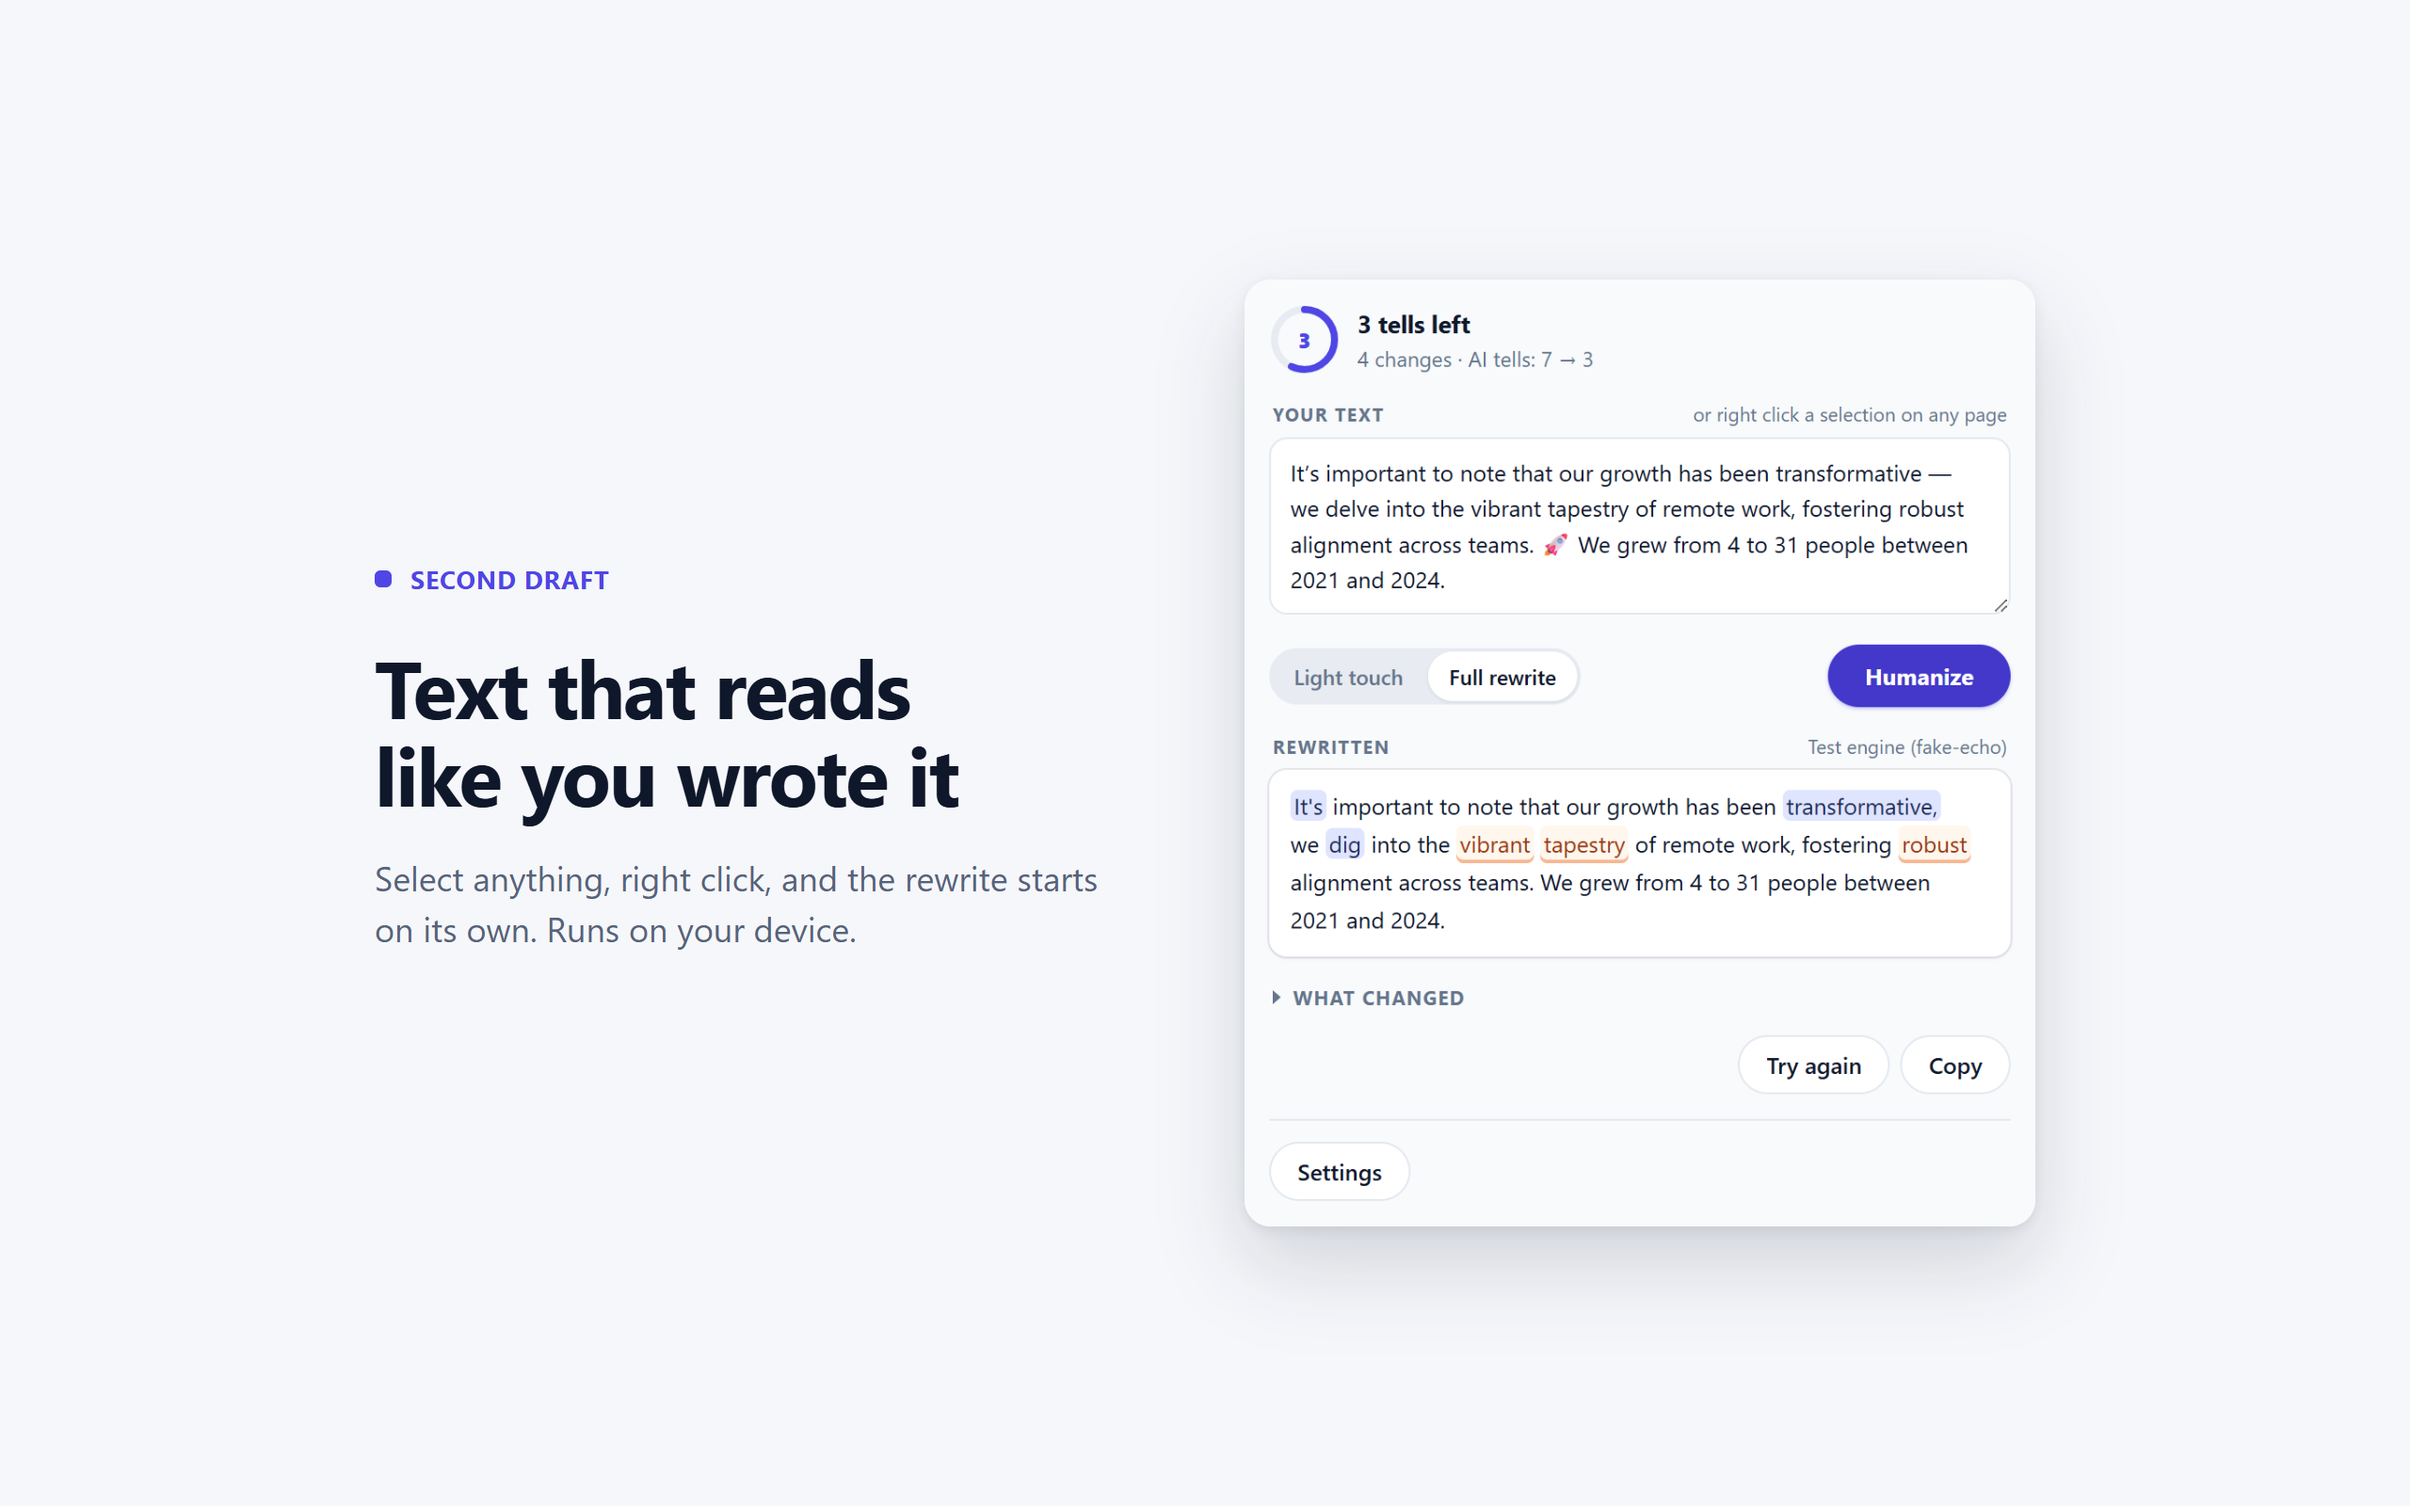
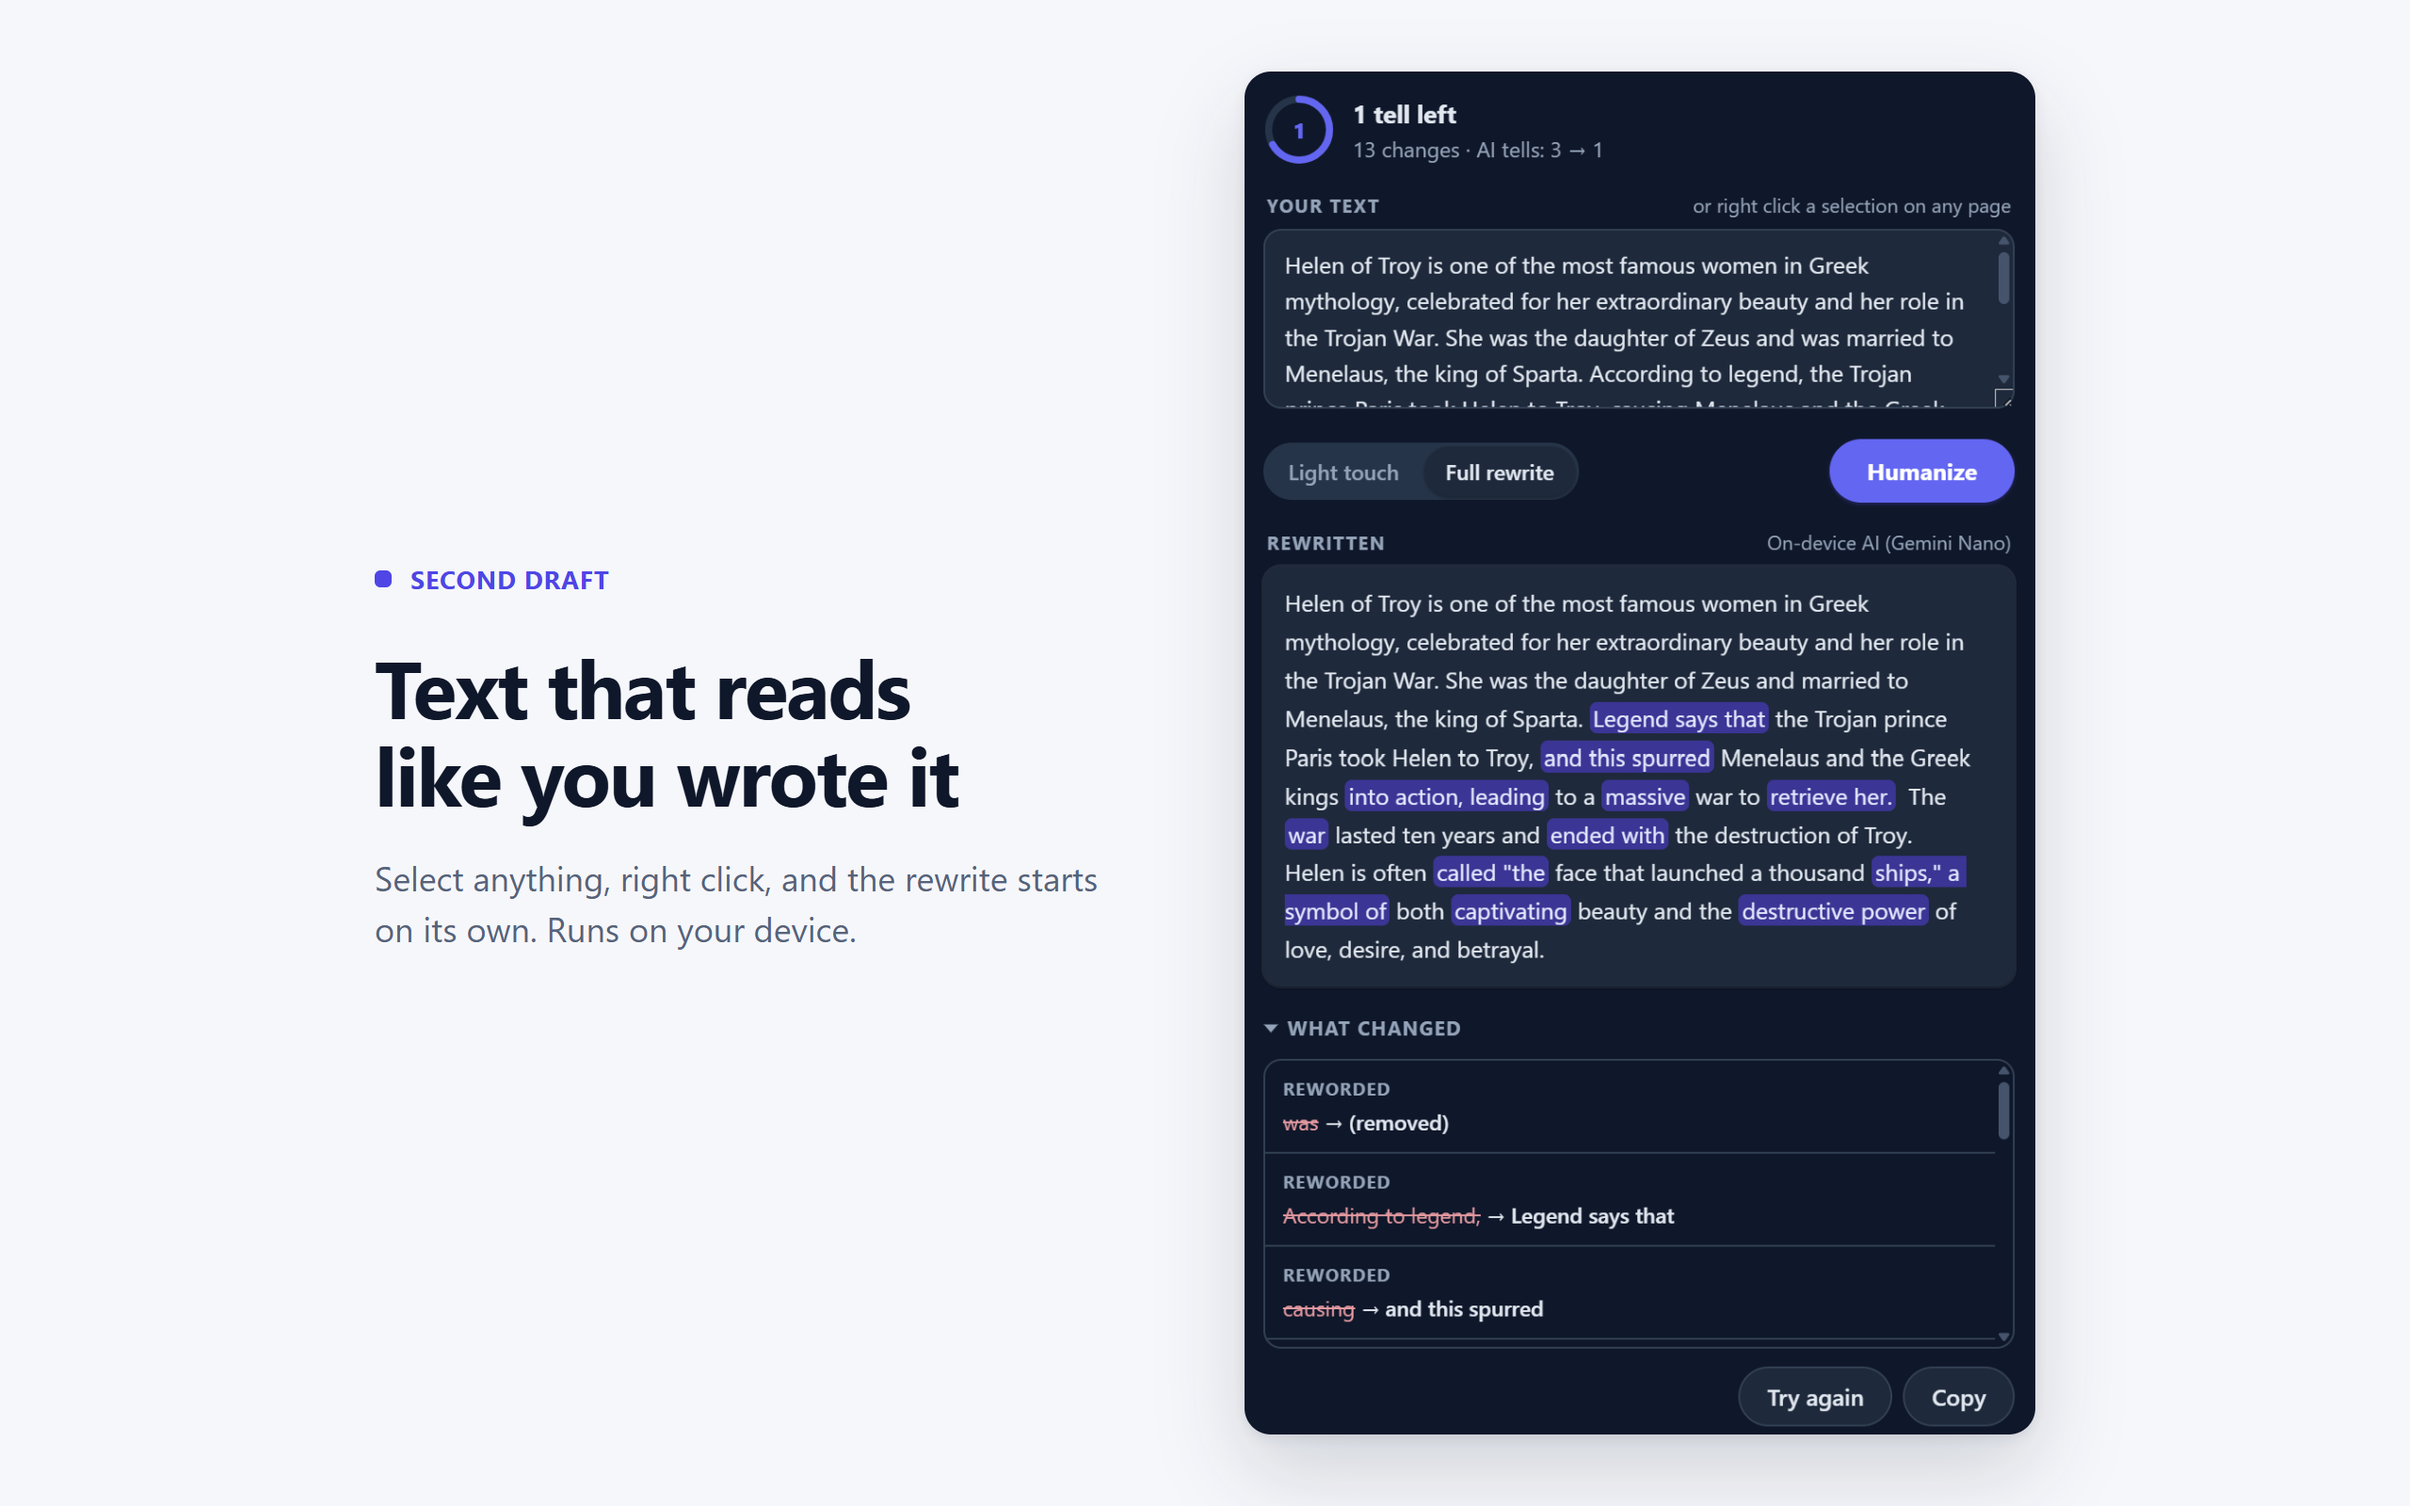
docs: real screenshot from Gemini Nano, and say which assets to upload
hero.png is now framed from a capture taken in a browser with the on-device
model, so the engine caption reads what a user sees and the rewrite in it is one
the shipped model produced. The landing page shows that capture too, instead of
the test-engine render.

hero-changes.png and options.png are still test renders, so the worksheet says
not to upload them rather than leaving someone to notice the caption later.

Changed region(s): [[0.5, 0.0312, 0.8438, 0.9688]]

diff --git a/docs/index.html b/docs/index.html
@@ -215,9 +215,9 @@
 
       <figure class="shot">
         <img
-          src="screenshots/popup-changes.png"
-          width="896"
-          height="1410"
+          src="screenshots/popup-real.png"
+          width="884"
+          height="1524"
           alt="The extension popup: a tell score of three, the rewritten paragraph with each
                edit highlighted, and a list of what changed with the reason for each edit."
           loading="lazy"

diff --git a/docs/store-listing.md b/docs/store-listing.md
@@ -127,18 +127,16 @@ costs nothing.
 - **Store icon**, 128x128: `public/icons/128.png`. A 512 is at
   `docs/screenshots/icon-512.png` if the dashboard asks for a larger one.
 - **Screenshots**, 1280x800, at least one and up to five.
-  `docs/screenshots/hero.png` and `hero-changes.png` are that size already.
 
-  The committed copies were rendered with the deterministic test engine, so the
-  small engine caption reads "Test engine (fake-echo)" rather than "On-device AI
-  (Gemini Nano)". Nothing about that breaks a store rule, but it is not what a
-  user sees.
+  Upload **`docs/screenshots/hero.png`**. It is 1280x800 and framed from a real
+  capture, so its engine caption reads "On-device AI (Gemini Nano)" and the rewrite
+  in it is one the shipped model actually produced.
 
-  To fix it, capture the popup in a browser that has the on-device model, since
-  Playwright's bundled Chromium does not: load the extension, rewrite a
-  paragraph, screenshot the popup, save it as
-  `docs/screenshots/popup-real.png`, and run `npm run screenshots`. It frames
-  your capture into 1280x800 instead of its own render.
+  Do not upload `hero-changes.png` or `options.png`. Those are still rendered by
+  the deterministic test engine, whose caption reads "Test engine (fake-echo)",
+  because Playwright's bundled Chromium has no on-device model. To replace them,
+  capture the popup again in a browser that does, overwrite
+  `docs/screenshots/popup-real.png`, and run `npm run screenshots`.
 - Promo tiles are optional. Skip them.
 
 ## Privacy policy URL
@@ -152,12 +150,10 @@ Live and rendering as HTML.
 1. Register at the developer dashboard and pay the one-time 5 USD fee. Expect a
    prompt to turn on 2-step verification and to verify a contact email; the
    account cannot publish without both.
-2. Optional, for a better screenshot: load `.output/chrome-mv3` unpacked at
-   `chrome://extensions`, rewrite a paragraph, screenshot the popup, save it to
-   `docs/screenshots/popup-real.png`, and run `npm run screenshots`.
-3. `npm run zip`, then upload `.output/second-draft-1.3.0-chrome.zip`.
-4. Fill the listing from the sections above, set visibility to Public and
-   distribution to all regions, and submit.
+2. `npm run zip`, then upload `.output/second-draft-1.3.0-chrome.zip`.
+3. Fill the listing from the sections above, attach `docs/screenshots/hero.png`
+   and `public/icons/128.png`, set visibility to Public and distribution to all
+   regions, and submit.
 
 Review usually takes a few days. A content script matching `<all_urls>` draws more
 scrutiny than a narrow one, so expect the permission justification above to be
